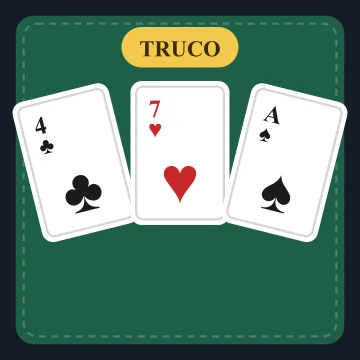
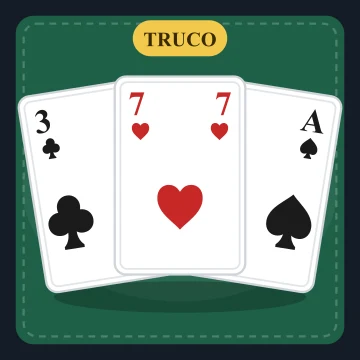
feat: redesenha as miniaturas de Truco e Dominó

Changed region(s): [[0.0306, 0.0306, 0.9778, 0.825]]

diff --git a/js/games.js b/js/games.js
@@ -98,12 +98,12 @@ export const GAMES = {
   truco: {
     title: "Truco", party: true, path: "games/truco/",
     desc: "O truco paulista para 2 jogadores ou 4 em duplas: três cartas, melhor de três vazas e manilhas fixas. Peça truco, aumente a aposta e corra na hora certa.",
-    preview: `<svg viewBox="0 0 160 160" aria-hidden="true"><rect width="160" height="160" rx="10" fill="#141c26"/><rect x="7" y="7" width="146" height="146" rx="8" fill="#1f6047"/><rect x="10.5" y="10.5" width="139" height="139" rx="6" fill="none" stroke="#fff" stroke-opacity=".2" stroke-dasharray="3 2.5"/><rect x="54" y="12" width="52" height="18" rx="9" fill="#f2c94c"/><text x="80" y="25" text-anchor="middle" font-size="10" font-weight="800" fill="#3a2a00">TRUCO</text><g transform="rotate(-14 36 82)"><rect x="14" y="40" width="44" height="64" rx="5" fill="#fff"/><rect x="16.5" y="42.5" width="39" height="59" rx="3" fill="none" stroke="#d5d5d5"/><text x="22" y="56" font-size="11" font-weight="800" fill="#1b1b1b">4</text><text x="22" y="65" font-size="10" fill="#1b1b1b">♣</text><text x="36" y="94" text-anchor="middle" font-size="27" fill="#1b1b1b">♣</text></g><g transform="rotate(0 80 82)"><rect x="58" y="36" width="44" height="64" rx="5" fill="#fff"/><rect x="60.5" y="38.5" width="39" height="59" rx="3" fill="none" stroke="#d5d5d5"/><text x="66" y="52" font-size="11" font-weight="800" fill="#c62828">7</text><text x="66" y="61" font-size="10" fill="#c62828">♥</text><text x="80" y="90" text-anchor="middle" font-size="27" fill="#c62828">♥</text></g><g transform="rotate(14 124 82)"><rect x="102" y="40" width="44" height="64" rx="5" fill="#fff"/><rect x="104.5" y="42.5" width="39" height="59" rx="3" fill="none" stroke="#d5d5d5"/><text x="110" y="56" font-size="11" font-weight="800" fill="#1b1b1b">A</text><text x="110" y="65" font-size="10" fill="#1b1b1b">♠</text><text x="124" y="94" text-anchor="middle" font-size="27" fill="#1b1b1b">♠</text></g></svg>`,
+    preview: `<svg viewBox="0 0 160 160" aria-hidden="true"><rect width="160" height="160" rx="10" fill="#141c26"/><rect x="7" y="7" width="146" height="146" rx="8" fill="#1f6047"/><rect x="10.5" y="10.5" width="139" height="139" rx="6" fill="none" stroke="#fff" stroke-opacity=".2" stroke-dasharray="3 2.5"/><ellipse cx="80" cy="84" rx="70" ry="50" fill="#fff" opacity=".055"/><rect x="59" y="9" width="42" height="16" rx="8" fill="#f2c94c"/><text x="80" y="20.5" text-anchor="middle" font-size="9" font-weight="800" fill="#3a2a00">TRUCO</text><ellipse cx="80" cy="132" rx="56" ry="7" fill="#000" opacity=".22"/><g transform="rotate(-9 50 126)"><rect x="21" y="38" width="58" height="88" rx="5" fill="#fff" stroke="#cfd3d8" stroke-width="1"/><rect x="23.5" y="40.5" width="53" height="83" rx="3" fill="none" stroke="#e2e5e9" stroke-width=".8"/><text x="27" y="55" font-size="15" font-weight="800" fill="#1b1b1b">3</text><text x="28" y="67" font-size="13" font-family="'Segoe UI Symbol','Noto Sans Symbols 2',serif" fill="#1b1b1b">♣</text><text x="73" y="55" text-anchor="end" font-size="15" font-weight="800" fill="#1b1b1b">3</text><text x="72" y="67" text-anchor="end" font-size="13" font-family="'Segoe UI Symbol','Noto Sans Symbols 2',serif" fill="#1b1b1b">♣</text><text x="36" y="108" text-anchor="middle" font-size="34" font-family="'Segoe UI Symbol','Noto Sans Symbols 2',serif" fill="#1b1b1b">♣</text></g><g transform="rotate(9 110 126)"><rect x="81" y="38" width="58" height="88" rx="5" fill="#fff" stroke="#cfd3d8" stroke-width="1"/><rect x="83.5" y="40.5" width="53" height="83" rx="3" fill="none" stroke="#e2e5e9" stroke-width=".8"/><text x="87" y="55" font-size="15" font-weight="800" fill="#1b1b1b">A</text><text x="88" y="67" font-size="13" font-family="'Segoe UI Symbol','Noto Sans Symbols 2',serif" fill="#1b1b1b">♠</text><text x="133" y="55" text-anchor="end" font-size="15" font-weight="800" fill="#1b1b1b">A</text><text x="132" y="67" text-anchor="end" font-size="13" font-family="'Segoe UI Symbol','Noto Sans Symbols 2',serif" fill="#1b1b1b">♠</text><text x="124" y="108" text-anchor="middle" font-size="34" font-family="'Segoe UI Symbol','Noto Sans Symbols 2',serif" fill="#1b1b1b">♠</text></g><g transform="rotate(0 80 122)"><rect x="51" y="34" width="58" height="88" rx="5" fill="#fff" stroke="#cfd3d8" stroke-width="1"/><rect x="53.5" y="36.5" width="53" height="83" rx="3" fill="none" stroke="#e2e5e9" stroke-width=".8"/><text x="57" y="51" font-size="15" font-weight="800" fill="#c62828">7</text><text x="58" y="63" font-size="13" font-family="'Segoe UI Symbol','Noto Sans Symbols 2',serif" fill="#c62828">♥</text><text x="103" y="51" text-anchor="end" font-size="15" font-weight="800" fill="#c62828">7</text><text x="102" y="63" text-anchor="end" font-size="13" font-family="'Segoe UI Symbol','Noto Sans Symbols 2',serif" fill="#c62828">♥</text><text x="80" y="104" text-anchor="middle" font-size="34" font-family="'Segoe UI Symbol','Noto Sans Symbols 2',serif" fill="#c62828">♥</text></g></svg>`,
   },
   /* Dominó é o terceiro jogo de PARTIDA (2 a 4 jogadores), por turnos e com eliminação por tempo. */
   domino: {
     title: "Dominó", party: true, path: "games/domino/",
     desc: "O clássico dominó de 28 pedras para 2 a 4 jogadores: encaixe nas duas pontas, compre no monte e bata somando os pontos dos adversários.",
-    preview: `<svg viewBox="0 0 160 160" aria-hidden="true"><rect width="160" height="160" rx="10" fill="#141c26"/><rect x="7" y="7" width="146" height="146" rx="8" fill="#1f6047"/><rect x="10.5" y="10.5" width="139" height="139" rx="6" fill="none" stroke="#fff" stroke-opacity=".2" stroke-dasharray="3 2.5"/><g transform="translate(8,70) rotate(-6 20 10)"><rect width="40" height="20" rx="3" fill="#f8f3e6"/><path d="M20 1V19" stroke="#b9ae94" stroke-width="1.2"/><g fill="#1b2430"><circle cx="6" cy="6" r="1.8"/><circle cx="14" cy="6" r="1.8"/><circle cx="10" cy="10" r="1.8"/><circle cx="6" cy="14" r="1.8"/><circle cx="14" cy="14" r="1.8"/><circle cx="26" cy="6" r="1.8"/><circle cx="30" cy="10" r="1.8"/><circle cx="34" cy="14" r="1.8"/></g></g><g transform="translate(56,62) rotate(-6 20 10)"><rect width="40" height="20" rx="3" fill="#f8f3e6"/><path d="M20 1V19" stroke="#b9ae94" stroke-width="1.2"/><g fill="#1b2430"><circle cx="6" cy="6" r="1.8"/><circle cx="14" cy="6" r="1.8"/><circle cx="6" cy="10" r="1.8"/><circle cx="14" cy="10" r="1.8"/><circle cx="6" cy="14" r="1.8"/><circle cx="14" cy="14" r="1.8"/><circle cx="26" cy="6" r="1.8"/><circle cx="34" cy="6" r="1.8"/><circle cx="26" cy="10" r="1.8"/><circle cx="34" cy="10" r="1.8"/><circle cx="26" cy="14" r="1.8"/><circle cx="34" cy="14" r="1.8"/></g></g><g transform="translate(104,70) rotate(-6 20 10)"><rect width="40" height="20" rx="3" fill="#f8f3e6"/><path d="M20 1V19" stroke="#b9ae94" stroke-width="1.2"/><g fill="#1b2430"><circle cx="6" cy="6" r="1.8"/><circle cx="14" cy="6" r="1.8"/><circle cx="6" cy="14" r="1.8"/><circle cx="14" cy="14" r="1.8"/><circle cx="26" cy="6" r="1.8"/><circle cx="34" cy="14" r="1.8"/></g></g></svg>`,
+    preview: `<svg viewBox="0 0 160 160" aria-hidden="true"><rect width="160" height="160" rx="10" fill="#141c26"/><rect x="7" y="7" width="146" height="146" rx="8" fill="#1f6047"/><rect x="10.5" y="10.5" width="139" height="139" rx="6" fill="none" stroke="#fff" stroke-opacity=".2" stroke-dasharray="3 2.5"/><ellipse cx="80" cy="84" rx="70" ry="50" fill="#fff" opacity=".055"/><ellipse cx="80" cy="118" rx="58" ry="8" fill="#000" opacity=".2"/><ellipse cx="34" cy="52" rx="26" ry="5" fill="#000" opacity=".16"/><ellipse cx="126" cy="52" rx="26" ry="5" fill="#000" opacity=".16"/><g transform="rotate(-14 34 34)"><rect x="10" y="22" width="48" height="24" rx="4" fill="#e2dbcb" stroke="#9c9483" stroke-width="1.2"/><line x1="34" y1="24" x2="34" y2="44" stroke="#9c9483" stroke-width="1.2"/><circle cx="16" cy="28" r="1.97" fill="#5b6068"/><circle cx="28" cy="28" r="1.97" fill="#5b6068"/><circle cx="16" cy="40" r="1.97" fill="#5b6068"/><circle cx="28" cy="40" r="1.97" fill="#5b6068"/><circle cx="46" cy="34" r="1.97" fill="#5b6068"/></g><g transform="rotate(14 126 34)"><rect x="102" y="22" width="48" height="24" rx="4" fill="#e2dbcb" stroke="#9c9483" stroke-width="1.2"/><line x1="126" y1="24" x2="126" y2="44" stroke="#9c9483" stroke-width="1.2"/><circle cx="120" cy="28" r="1.97" fill="#5b6068"/><circle cx="108" cy="40" r="1.97" fill="#5b6068"/><circle cx="132" cy="28" r="1.97" fill="#5b6068"/><circle cx="144" cy="28" r="1.97" fill="#5b6068"/><circle cx="138" cy="34" r="1.97" fill="#5b6068"/><circle cx="132" cy="40" r="1.97" fill="#5b6068"/><circle cx="144" cy="40" r="1.97" fill="#5b6068"/></g><g transform="rotate(-6 80 88)"><rect x="22" y="59" width="116" height="58" rx="7" fill="#f8f3e6" stroke="#b9ae94" stroke-width="1.8"/><line x1="80" y1="61" x2="80" y2="115" stroke="#b9ae94" stroke-width="1.8"/><circle cx="36.5" cy="73.5" r="4.76" fill="#1b2430"/><circle cx="65.5" cy="73.5" r="4.76" fill="#1b2430"/><circle cx="36.5" cy="88" r="4.76" fill="#1b2430"/><circle cx="65.5" cy="88" r="4.76" fill="#1b2430"/><circle cx="36.5" cy="102.5" r="4.76" fill="#1b2430"/><circle cx="65.5" cy="102.5" r="4.76" fill="#1b2430"/><circle cx="94.5" cy="73.5" r="4.76" fill="#1b2430"/><circle cx="123.5" cy="73.5" r="4.76" fill="#1b2430"/><circle cx="94.5" cy="88" r="4.76" fill="#1b2430"/><circle cx="123.5" cy="88" r="4.76" fill="#1b2430"/><circle cx="94.5" cy="102.5" r="4.76" fill="#1b2430"/><circle cx="123.5" cy="102.5" r="4.76" fill="#1b2430"/></g></svg>`,
   },
 };
